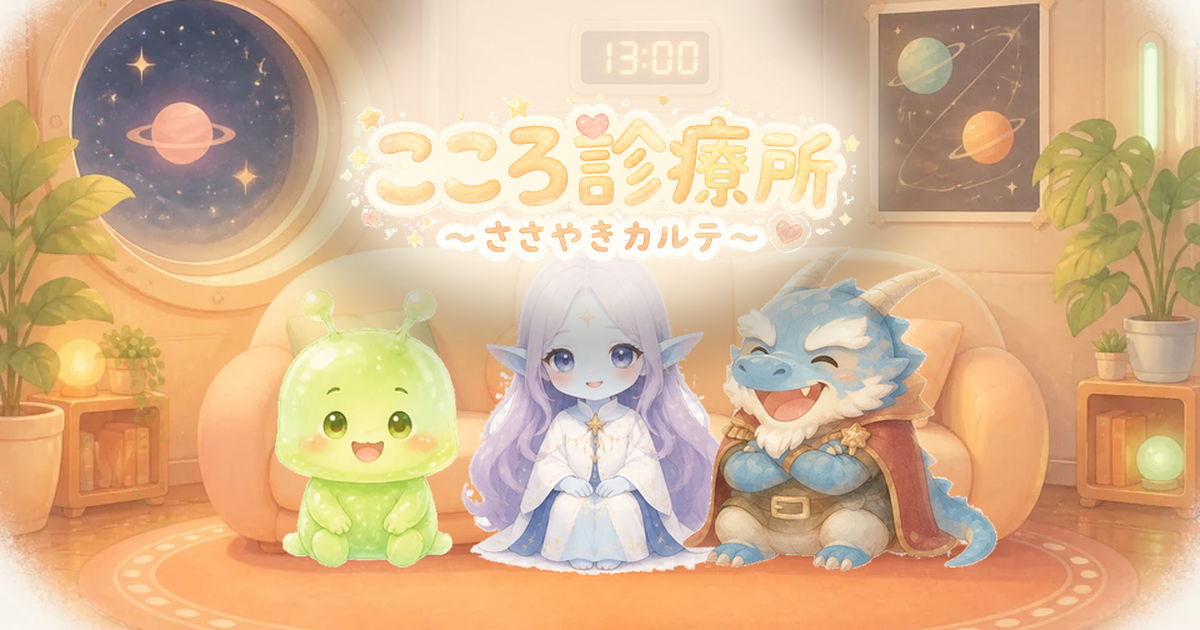
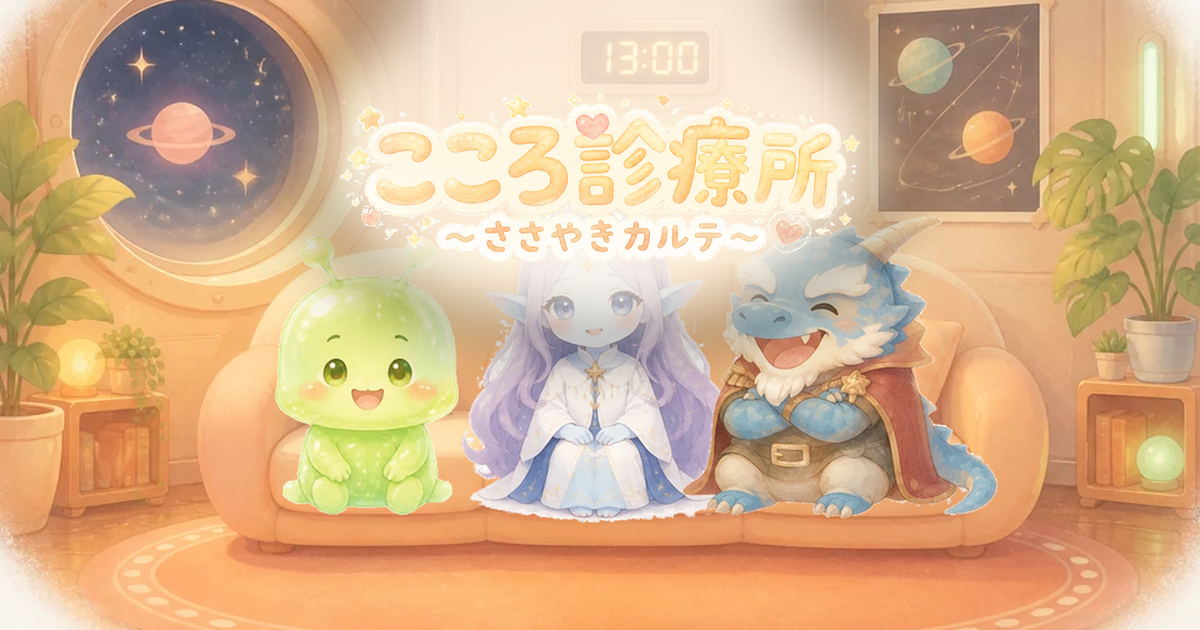
キャラをソファの座面に座らせる（床に座って見えていたのを修正）

Changed region(s): [[0.2158, 0.3317, 0.8325, 0.9349]]

diff --git a/index.html b/index.html
@@ -16,7 +16,7 @@
 <script>
 // 古い版がブラウザに残っていたら、最新版を読み直す
 (function () {
-  var V = '37'; window.V = V;
+  var V = '38'; window.V = V;
   fetch('version.txt?t=' + Date.now(), { cache: 'no-store' }).then(function (r) { return r.text(); }).then(function (v) {
     v = v.trim();
     if (v && v !== V && sessionStorage.getItem('kokoro_reload') !== v) {
@@ -28,7 +28,7 @@
 </script>
 <link rel="preconnect" href="https://fonts.googleapis.com">
 <link href="https://fonts.googleapis.com/css2?family=Zen+Maru+Gothic:wght@500;700&display=swap" rel="stylesheet">
-<link rel="stylesheet" href="css/style.css?v=37">
+<link rel="stylesheet" href="css/style.css?v=38">
 </head>
 <body>
 <div id="app">
@@ -38,7 +38,7 @@
     <div class="title-art"><canvas id="cv-title"></canvas></div>
     <div class="title-box">
       <p class="title-sub">宇宙ステーションの</p>
-      <h1><img class="logo" src="img/logo.png?v=37" alt="こころ診療所 ～ささやきカルテ～"></h1>
+      <h1><img class="logo" src="img/logo.png?v=38" alt="こころ診療所 ～ささやきカルテ～"></h1>
       <button class="btn big" id="btn-start">はじめる</button>
       <div class="title-links">
         <button class="btn ghost" id="btn-howto">あそびかた</button>
@@ -103,14 +103,14 @@
   <div class="modal" id="modal"><div class="sheet"><div id="modal-body"></div><button class="btn" id="modal-close">とじる</button></div></div>
 
 </div>
-<script src="js/data-patients.js?v=37"></script>
-<script src="js/data-flow.js?v=37"></script><script src="js/data-stage2.js?v=37"></script>
-<script src="js/engine.js?v=37"></script>
-<script src="js/story.js?v=37"></script>
-<script src="js/ai.js?v=37"></script>
-<script src="js/audio.js?v=37"></script>
-<script src="js/pixel.js?v=37"></script>
-<script src="js/paywall.js?v=37"></script>
-<script src="js/ui.js?v=37"></script>
+<script src="js/data-patients.js?v=38"></script>
+<script src="js/data-flow.js?v=38"></script><script src="js/data-stage2.js?v=38"></script>
+<script src="js/engine.js?v=38"></script>
+<script src="js/story.js?v=38"></script>
+<script src="js/ai.js?v=38"></script>
+<script src="js/audio.js?v=38"></script>
+<script src="js/pixel.js?v=38"></script>
+<script src="js/paywall.js?v=38"></script>
+<script src="js/ui.js?v=38"></script>
 </body>
 </html>

diff --git a/js/pixel.js b/js/pixel.js
@@ -5,8 +5,9 @@ var Pixel = (function () {
   var V = (document.currentScript && (document.currentScript.src.match(/\?v=\w+/) || [''])[0]) || '';
   var FACES = ['normal', 'happy', 'sad', 'surprise', 'angry', 'cry'];
   // sprite名 → 画像の名前・座ったときの下端(y)
-  var CHARS = { slime: { name: 'pururu', bottom: 196 }, elf: { name: 'lumie', bottom: 200 }, dragon: { name: 'gald', bottom: 198, noBlink: { surprise: 1 } },
-    fox: { name: 'konoha', bottom: 198 }, cat: { name: 'mii', bottom: 198 }, robot: { name: 'noa', bottom: 198, noBlink: true } };
+  // bottom はソファの座面（ゲーム座標 y≈180）におしり・足先が来る高さ
+  var CHARS = { slime: { name: 'pururu', bottom: 180 }, elf: { name: 'lumie', bottom: 184 }, dragon: { name: 'gald', bottom: 182, noBlink: { surprise: 1 } },
+    fox: { name: 'konoha', bottom: 186 }, cat: { name: 'mii', bottom: 186 }, robot: { name: 'noa', bottom: 182, noBlink: true } };
   var img = {};
   function load(key) {
     if (img[key]) return img[key];
@@ -26,7 +27,7 @@ var Pixel = (function () {
   });
   ['normal', 'happy', 'worry'].forEach(function (f) { load('nurse_icon_' + f); });
   // 物語に出てくる人たち（となりに登場）と、エピソードの品物、結末の1枚絵
-  var COMP = { moti: { x: 214, bottom: 192, faces: ['pout', 'happy', 'weak'] }, thomas: { x: 236, bottom: 222, faces: ['smile', 'shy', 'surprise'] }, rino: { x: 230, bottom: 220, faces: ['happy', 'surprise', 'sad'] },
+  var COMP = { moti: { x: 214, bottom: 180, faces: ['pout', 'happy', 'weak'] }, thomas: { x: 236, bottom: 222, faces: ['smile', 'shy', 'surprise'] }, rino: { x: 230, bottom: 220, faces: ['happy', 'surprise', 'sad'] },
     mother: { x: 236, bottom: 222, faces: ['smile'] }, pipi: { x: 232, bottom: 222, faces: ['smile'] }, harumo: { x: 236, bottom: 222, faces: ['smile'], alpha: 0.85 } };
   Object.keys(COMP).forEach(function (k) { COMP[k].faces.forEach(function (f) { load(k + '_' + f); }); });
   ['bread', 'comm', 'flower', 'drawing', 'photo', 'inari', 'misanga', 'letter', 'spanner', 'musicbox'].forEach(function (k) { load('item_' + k); });

diff --git a/tools/make-share.py b/tools/make-share.py
@@ -24,9 +24,9 @@ def put(name, x, bottom, scale=1.0):
 
 
 # ソファに3人（ゲームと同じ座る高さ。ゲーム座標×S）
-put('pururu_happy', 98 * S, 198 * S, 0.58)
-put('lumie_happy', 160 * S, 200 * S, 0.58)
-put('gald_happy', 224 * S, 199 * S, 0.58)
+put('pururu_happy', 98 * S, 184 * S, 0.58)
+put('lumie_happy', 160 * S, 186 * S, 0.58)
+put('gald_happy', 224 * S, 185 * S, 0.58)
 big = base.resize((1200, 630), Image.LANCZOS)
 logo = Image.open(os.path.join(IMG, 'logo.png')).convert('RGBA')
 logo = logo.resize((520, round(logo.height * 520 / logo.width)), Image.LANCZOS)
